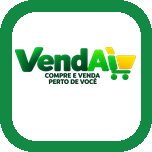
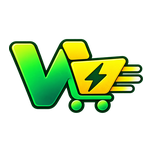
Add files via upload

diff --git a/index.html b/index.html
@@ -2,7 +2,7 @@
 <html lang="pt-BR">
 <head>
 <meta charset="UTF-8">
-<meta name="viewport" content="width=device-width, initial-scale=1.0, viewport-fit=cover">
+<meta name="viewport" content="width=device-width, initial-scale=1.0, maximum-scale=1.0, user-scalable=no, viewport-fit=cover">
 <meta name="theme-color" content="#0F6B3D">
 <meta name="description" content="Vendaí — marketplace local para vender, comprar, negociar e trocar produtos com pessoas da sua região.">
 <meta name="mobile-web-app-capable" content="yes">
@@ -10,9 +10,9 @@
 <meta name="apple-mobile-web-app-status-bar-style" content="default">
 <meta name="apple-mobile-web-app-title" content="Vendaí">
 <link rel="manifest" href="/manifest.webmanifest">
-<link rel="icon" type="image/png" sizes="192x192" href="/icon-192.png">
-<link rel="apple-touch-icon" href="/icon-192.png">
-<link rel="preload" href="/icon-192.png" as="image">
+<link rel="icon" type="image/png" sizes="192x192" href="/icon-192.png?v=20260911-newbrand">
+<link rel="apple-touch-icon" href="/icon-192.png?v=20260911-newbrand">
+<link rel="preload" href="/icon-192.png?v=20260911-newbrand" as="image">
 <link rel="preconnect" href="https://rgcclordmqjmwuzrrfbd.supabase.co">
 <link rel="preconnect" href="https://cdn.jsdelivr.net" crossorigin>
 <title>Vendaí — compre, venda e negocie</title>
@@ -1502,6 +1502,137 @@
   .partnerBtn.share{background:#F3F7F4;color:var(--green-dark);border:1px solid #DFE7E2;}
   .rolinhoHome,.rolinhoFloat{display:none !important;}
 
+
+  /* ===== Visual limpo + nova marca Vendaí Entrega Flash ===== */
+  .brandLogoGroup{min-width:0;display:flex;align-items:center;overflow:visible;}
+  .brandLogoFull{display:block;width:168px;height:auto;max-height:70px;object-fit:contain;object-position:left center;filter:drop-shadow(0 4px 8px rgba(12,64,36,.14));}
+  .logoMark,.logo{display:none!important;}
+
+  /* Menos blocos na tela inicial */
+  .merchantAccessBar,.partnerQuickLink,.supportHome,.infoBanner{display:none!important;}
+  header{padding-bottom:10px;box-shadow:none;border-bottom:1px solid #EEF2EF;}
+  .searchBar{margin-top:6px;background:#fff;border:1px solid #E2E9E4;border-radius:16px;box-shadow:none;}
+
+  /* Parceiro continua visível, mas sem virar um blocão */
+  .partnersSection{margin:8px 16px 4px;padding:10px 12px;border-radius:16px;background:#fff;border:1px solid #E1E9E3;box-shadow:none;}
+  .partnersSection::after{display:none;}
+  .partnersHeader{display:flex;align-items:center;gap:8px;margin:0 0 8px;}
+  .partnersKicker{padding:4px 7px;font-size:8.5px;white-space:nowrap;}
+  .partnersTitle{font-size:14px;margin:0;font-family:inherit;font-weight:850;}
+  .partnersSub{display:none;}
+  .partnerCard{grid-template-columns:142px minmax(0,1fr);gap:12px;padding:8px;border:0;border-radius:12px;box-shadow:none;background:#F8FBF9;}
+  .partnerLogoBox{width:142px;height:84px;padding:2px;border:0;background:transparent;overflow:visible;}
+  .partnerLogoBox img{width:100%;height:100%;object-fit:contain;}
+  .partnerVerified{font-size:8.7px;padding:3px 6px;margin-bottom:3px;}
+  .partnerName{font-size:15px;}
+  .partnerMeta{font-size:10px;line-height:1.3;}
+  .partnerActions{margin-top:6px;gap:5px;}
+  .partnerBtn{padding:7px 9px;font-size:9.8px;border-radius:9px;}
+
+  /* Instalação vira faixa compacta */
+  .installHero{margin:8px 16px 4px;padding:8px 10px;border-radius:14px;box-shadow:none;background:#0F6B3D;}
+  .installHero::after{display:none;}
+  .installAppIcon{width:40px;height:40px;border-radius:10px;background:transparent;box-shadow:none;overflow:visible;}
+  .installAppIcon img{object-fit:contain;}
+  .installTitle{font-size:12px;}
+  .installSub{font-size:9.5px;}
+  .installBtn{padding:8px 10px;font-size:10.5px;box-shadow:none;border-radius:10px;}
+
+  /* Hero mais baixo */
+  .heroTop{margin:8px 16px 4px;border-radius:18px;box-shadow:none;}
+  .heroInner{padding:14px;min-height:164px;}
+  .heroTitle{font-size:22px;}
+  .heroText{font-size:10.8px;margin-bottom:9px;}
+
+  /* Categorias sem caixa grande */
+  .categorySection{margin:4px 12px 8px;padding:10px 4px 6px;background:transparent;border:0;border-radius:0;box-shadow:none;}
+  .categoryHeader{margin:0 4px 7px;}
+  .categoryHint{display:none;}
+  .chipRow{display:flex;gap:10px;overflow-x:auto;padding:2px 4px 5px;scrollbar-width:none;}
+  .chipRow::-webkit-scrollbar{display:none;}
+  .chip{min-width:62px;flex:0 0 62px;gap:4px;font-size:9.6px;}
+  .chipIcon{width:44px;height:44px;border-radius:14px;box-shadow:none;border:1px solid rgba(18,40,28,.05);}
+  .chip.active .chipIcon{transform:none;box-shadow:0 4px 10px rgba(18,40,28,.10);}
+
+  /* Feed mais limpo */
+  main{padding-top:6px;}
+  .feedTitle{margin:0 0 10px;font-size:17px;}
+  .card{box-shadow:none;border:1px solid #E6ECE8;}
+  .cardBody{padding:10px 11px 11px;}
+  .cardBottomMeta{display:flex;align-items:center;justify-content:space-between;gap:6px;margin-top:2px;}
+  .cardBottomMeta .cardMeta{min-width:0;flex:1;}
+  .likeChip.cardLike{position:static!important;flex:0 0 auto;box-shadow:none;background:transparent;border:0;padding:2px 0 2px 5px;font-size:10.5px;color:#6D7B73;}
+  .likeChip.cardLike.active{color:#C23E63;background:transparent;}
+  .likeChip.cardLike .heart{font-size:13px;}
+
+  /* A área para lojista fica discreta no fim do feed */
+  .merchantIntroCompact{margin:14px 0 2px;padding:12px 13px;border-radius:15px;box-shadow:none;background:#F7FAF8;border:1px solid #E3EAE5;}
+  .merchantIntroCompact .merchantTitle{font-size:16px;}
+  .merchantIntroCompact .merchantText{font-size:11px;}
+  .merchantMiniList{display:none;}
+  .merchantIntroCompact .merchantCta{margin-top:8px;}
+  .merchantIntroCompact .merchantCta button{min-height:34px;padding:0 10px;font-size:10.5px;}
+
+  @media(max-width:520px){
+    .brandLogoFull{width:148px;max-height:62px;}
+    .location{max-width:43%;padding:6px 8px;font-size:10.5px;}
+    .partnersSection{margin-left:12px;margin-right:12px;}
+    .partnerCard{grid-template-columns:122px minmax(0,1fr);gap:9px;}
+    .partnerLogoBox{width:122px;height:74px;}
+    .partnerActions{flex-direction:column;align-items:flex-start;}
+    .partnerBtn{width:auto;}
+    .installHero,.heroTop{margin-left:12px;margin-right:12px;}
+  }
+  @media(min-width:760px){
+    .brandLogoFull{width:220px;max-height:82px;}
+    .partnersSection{margin-left:40px;margin-right:40px;}
+    .partnerCard{grid-template-columns:180px minmax(0,1fr);}
+    .partnerLogoBox{width:180px;height:100px;}
+    .categorySection{margin-left:36px;margin-right:36px;}
+    .chipRow{justify-content:flex-start;overflow:visible;}
+  }
+
+
+  /* ===== 11/09/2026 — desktop como site, celular como app ===== */
+  .desktopSiteNav{display:none;}
+  html,body{overscroll-behavior-x:none;}
+  #app{touch-action:pan-y;}
+
+  @media (max-width:759px){
+    html,body{width:100%;max-width:100%;overflow-x:hidden;}
+    body{display:flex;justify-content:center;background:var(--bg);}
+    #app{width:100%;max-width:430px;min-height:100dvh;overflow-x:hidden;}
+    header{width:100%;}
+    /* Evita o zoom automático ao tocar em campos no celular */
+    input,textarea,select{font-size:16px!important;}
+    /* A navegação inferior continua com aparência de aplicativo */
+    nav{display:flex;}
+    .fab{display:block;}
+  }
+
+  @media (min-width:760px){
+    /* No computador a interface ocupa a janela como um site, não como um telefone ampliado */
+    html,body{width:100%;max-width:none;min-width:100%;background:#F6FAF7;overflow-x:hidden;}
+    body{display:block;}
+    #app{width:100%;max-width:none;min-height:100vh;background:#F6FAF7;}
+    header{position:sticky;top:0;width:100%;padding:14px clamp(28px,4vw,72px) 12px;background:rgba(255,255,255,.98);}
+    .topRow{margin-bottom:8px;}
+    .brandLogoFull{width:210px;max-height:78px;}
+    .searchBar{max-width:none;margin-top:4px;}
+    .desktopSiteNav{display:flex;align-items:center;gap:8px;margin-top:10px;flex-wrap:wrap;}
+    .desktopSiteNav button{border:1px solid #DDE7E0;background:#fff;color:var(--green-dark);border-radius:10px;padding:8px 12px;font:800 11px 'Inter',sans-serif;cursor:pointer;}
+    .desktopSiteNav button.primary{background:var(--green-dark);color:#fff;border-color:var(--green-dark);}
+    .desktopSiteNav button:hover{filter:brightness(.98);}
+    /* Controles típicos de app ficam só no celular */
+    nav,.fab{display:none!important;}
+    .installHero{display:none!important;}
+    main{padding-bottom:36px;}
+    .partnersSection,.heroTop,.categorySection{margin-left:clamp(28px,4vw,72px);margin-right:clamp(28px,4vw,72px);}
+    .partnersSection{max-width:none;}
+    .grid{grid-template-columns:repeat(auto-fill,minmax(220px,1fr))!important;}
+    .overlay{width:100vw;max-width:none;}
+  }
+
 </style>
 </head>
 <body>
@@ -1510,29 +1641,22 @@
 
   <header>
     <div class="topRow">
-      <div class="logoGroup">
-        <svg class="logoMark" width="34" height="34" viewBox="0 0 40 40" aria-label="Vendaí">
-          <defs>
-            <linearGradient id="logoBg" x1="4" y1="2" x2="36" y2="38" gradientUnits="userSpaceOnUse">
-              <stop offset="0" stop-color="#27BF6B"/>
-              <stop offset="1" stop-color="#12703E"/>
-            </linearGradient>
-            <linearGradient id="logoMarkGrad" x1="12" y1="13" x2="28" y2="27" gradientUnits="userSpaceOnUse">
-              <stop offset="0" stop-color="#FFC93C"/>
-              <stop offset="1" stop-color="#E8A800"/>
-            </linearGradient>
-          </defs>
-          <rect x="2" y="2" width="36" height="36" rx="12" fill="url(#logoBg)"/>
-          <path d="M12.5 15.5 L20 27.5 L27.5 15.5" stroke="url(#logoMarkGrad)" stroke-width="3.4" stroke-linecap="round" stroke-linejoin="round" fill="none"/>
-          <circle cx="27.5" cy="12.3" r="3.1" fill="url(#logoMarkGrad)"/>
-        </svg>
-        <div class="logo">Vend<em>aí</em></div>
+      <div class="logoGroup brandLogoGroup">
+        <img class="brandLogoFull" src="/vendai-logo-novo.png?v=20260911-newbrand" alt="Vendaí Entrega Flash">
       </div>
       <button class="location" onclick="openLocationSheet()" id="locationBtn"><svg width="12" height="12" viewBox="0 0 24 24" fill="none" stroke="currentColor" stroke-width="2.1" stroke-linecap="round" stroke-linejoin="round" style="vertical-align:-1px;margin-right:2px;"><path d="M12 21s7-6.4 7-11.6A7 7 0 0 0 5 9.4C5 14.6 12 21 12 21Z"/><circle cx="12" cy="9.4" r="2.4"/></svg> Toda a região <svg width="9" height="9" viewBox="0 0 24 24" fill="none" stroke="currentColor" stroke-width="2.6" stroke-linecap="round" stroke-linejoin="round" style="vertical-align:1px;margin-left:1px;"><polyline points="6 9 12 15 18 9"/></svg></button>
     </div>
     <div class="searchBar">
       <span style="display:inline-flex;color:var(--ink-soft);"><svg width="17" height="17" viewBox="0 0 24 24" fill="none" stroke="currentColor" stroke-width="2.1" stroke-linecap="round"><circle cx="10.8" cy="10.8" r="6.8"/><line x1="20" y1="20" x2="15.6" y2="15.6"/></svg></span>
       <input id="searchInput" type="text" placeholder="Buscar celular, carro, móveis..." autocomplete="off">
+    </div>
+    <div class="desktopSiteNav" aria-label="Navegação do site">
+      <button type="button" onclick="window.scrollTo({top:0,behavior:'smooth'})">Início</button>
+      <button type="button" onclick="openCategories()">Categorias</button>
+      <button type="button" class="primary" onclick="openPostSheet()">＋ Anunciar</button>
+      <button type="button" onclick="document.getElementById('parceirosHome')?.scrollIntoView({behavior:'smooth',block:'start'})">Parceiros</button>
+      <button type="button" onclick="abrirConversas()">Conversas</button>
+      <button type="button" onclick="openProfileSheet()">Perfil</button>
     </div>
     <button class="partnerQuickLink" type="button" onclick="document.getElementById('parceirosHome').scrollIntoView({behavior:'smooth',block:'start'})" aria-label="Ver parceiros oficiais do Vendaí">
       <span class="partnerQuickLinkLeft"><span class="partnerQuickLinkIcon">🤝</span><span>Parceiros oficiais do Vendaí</span></span>
@@ -1559,7 +1683,7 @@
     <div class="partnersHeader">
       <div class="partnersKicker">🤝 Parceiros oficiais</div>
       <div class="partnersTitle">Parceiro em destaque</div>
-      <div class="partnersSub">Veja quem já faz parte da rede oficial de parceiros do Vendaí.</div>
+      <div class="partnersSub">Lojas reconhecidas como parceiras oficiais do Vendaí.</div>
     </div>
     <div class="partnersTrack">
       <article class="partnerCard" id="partner-otica-myrian">
@@ -1582,7 +1706,7 @@
 
 
   <section class="installHero" id="installHero" aria-label="Instalar aplicativo Vendaí">
-    <div class="installAppIcon"><img src="/icon-192.png" alt="Ícone do Vendaí" width="46" height="46"></div>
+    <div class="installAppIcon"><img src="/icon-192.png?v=20260911-newbrand" alt="Ícone do Vendaí Entrega Flash" width="46" height="46"></div>
     <div class="installCopy">
       <div class="installTitle">Leve o Vendaí no celular</div>
       <div class="installSub">Android • app leve • acesso rápido</div>
@@ -2567,12 +2691,14 @@ function renderGrid(){
           : CATEGORY_ICON[ad.categoria]}
         ${ad.destaque ? '<div style="position:absolute; top:8px; left:8px; background:var(--yellow); border-radius:8px; font-size:9.5px; font-weight:700; padding:3px 7px; color:var(--ink);">🔥 Destaque</div>' : ''}
         ${aceitaTroca(ad) ? '<div class="rolinhoBadge">🔄 Aceita troca</div>' : ''}
-        ${renderLikeButtonHtml(ad.id)}
       </div>
       <div class="cardBody">
         <div class="cardTitle">${ad.titulo}</div>
         <div class="cardPrice">${formatPrice(ad.preco)}</div>
-        <div class="cardMeta">${ad.cidade} · ${tempoDecorrido(ad.criado_em)}</div>
+        <div class="cardBottomMeta">
+          <div class="cardMeta">${ad.cidade} · ${tempoDecorrido(ad.criado_em)}</div>
+          ${renderLikeButtonHtml(ad.id,'cardLike')}
+        </div>
       </div>
     `;
     grid.appendChild(card);
@@ -3401,7 +3527,27 @@ function gerarEtiquetaPedidoLoja(id){
     ${o.observacao?`<div class="row"><div class="box full"><div class="k">Observação do cliente</div><div class="v">${seguro(o.observacao)}</div></div></div>`:''}
     ${nota?`<div class="row"><div class="box full"><div class="k">Anotação da loja</div><div class="v">${seguro(nota)}</div></div></div>`:''}
     <div class="row"><div class="box"><div class="k">Pagamento</div><div class="v">${seguro(o.pagamento_status)}</div></div><div class="box"><div class="k">Status</div><div class="v"><span class="status">${seguro(o.status)}</span></div></div></div>
-  </div><div class="foot">Etiqueta de separação do pedido. Confira produto, quantidade, cliente e endereço antes de liberar a retirada ou entrega.</div></div><div class="actions"><button class="print" onclick="window.print()">🖨 Imprimir / Salvar PDF</button><button class="close" onclick="window.close()">Fechar</button></div></body></html>`);
+  </div><div class="foot">Etiqueta de separação do pedido. Confira produto, quantidade, cliente e endereço antes de liberar a retirada ou entrega.</div></div><div class="actions"><button class="print" onclick="window.print()">🖨 Imprimir / Salvar PDF</button><button class="close" onclick="window.close()">Fechar</button></div>
+<script>
+(function(){
+  function mobileLike(){ return window.matchMedia('(max-width: 759px)').matches; }
+  document.addEventListener('gesturestart', function(e){ if(mobileLike()) e.preventDefault(); }, {passive:false});
+  document.addEventListener('gesturechange', function(e){ if(mobileLike()) e.preventDefault(); }, {passive:false});
+  document.addEventListener('gestureend', function(e){ if(mobileLike()) e.preventDefault(); }, {passive:false});
+  document.addEventListener('touchmove', function(e){
+    if(mobileLike() && e.touches && e.touches.length > 1) e.preventDefault();
+  }, {passive:false});
+  let lastTouchEnd=0;
+  document.addEventListener('touchend', function(e){
+    if(!mobileLike()) return;
+    const now=Date.now();
+    if(now-lastTouchEnd<=300) e.preventDefault();
+    lastTouchEnd=now;
+  }, {passive:false});
+})();
+</script>
+
+</body></html>`);
   w.document.close();
 }
 async function responderPedidoLoja(id,aceitar){

diff --git a/offline.html b/offline.html
@@ -1,1 +1,1 @@
-<!doctype html><html lang="pt-BR"><head><meta charset="utf-8"><meta name="viewport" content="width=device-width,initial-scale=1"><meta name="theme-color" content="#1EA35A"><title>Vendaí — sem conexão</title><style>body{margin:0;font-family:Arial,sans-serif;background:#F6FAF7;color:#16281D;min-height:100vh;display:grid;place-items:center}.box{max-width:360px;padding:28px;text-align:center}.logo{font-size:36px;font-weight:800;color:#12703E}.dot{color:#E8A800}button{border:0;border-radius:999px;padding:13px 20px;background:#1EA35A;color:white;font-weight:700}</style></head><body><div class="box"><div class="logo">Vend<span class="dot">aí</span></div><h1>Sem conexão agora</h1><p>Assim que a internet voltar, tente novamente para carregar anúncios, mensagens e fotos.</p><button onclick="location.reload()">Tentar novamente</button></div></body></html>
+<!doctype html><html lang="pt-BR"><head><meta charset="utf-8"><meta name="viewport" content="width=device-width,initial-scale=1"><meta name="theme-color" content="#1EA35A"><title>Vendaí — sem conexão</title><style>body{margin:0;font-family:Arial,sans-serif;background:#F6FAF7;color:#16281D;min-height:100vh;display:grid;place-items:center}.box{max-width:360px;padding:28px;text-align:center}.logo img{width:min(280px,85vw);height:auto;display:block;margin:0 auto 8px}.dot{color:#E8A800}button{border:0;border-radius:999px;padding:13px 20px;background:#1EA35A;color:white;font-weight:700}</style></head><body><div class="box"><div class="logo"><img src="/vendai-logo-novo.png" alt="Vendaí Entrega Flash"></div><h1>Sem conexão agora</h1><p>Assim que a internet voltar, tente novamente para carregar anúncios, mensagens e fotos.</p><button onclick="location.reload()">Tentar novamente</button></div></body></html>

diff --git a/sw.js b/sw.js
@@ -1,4 +1,4 @@
-const CACHE_NAME = 'vendai-parceiros-20260911-1';
+const CACHE_NAME = 'vendai-clean-brand-20260911-2';
 const APP_SHELL = [
   '/',
   '/index.html',
@@ -9,7 +9,9 @@ const APP_SHELL = [
   '/icon-512.png',
   '/icon-maskable-512.png',
   '/hero-products.png',
-  '/parceiro-otica-myrian-logo.jpg'
+  '/parceiro-otica-myrian-logo-transparent.png',
+  '/vendai-logo-novo.png',
+  '/vendai-icon-novo.png'
 ];
 
 self.addEventListener('install', event => {
